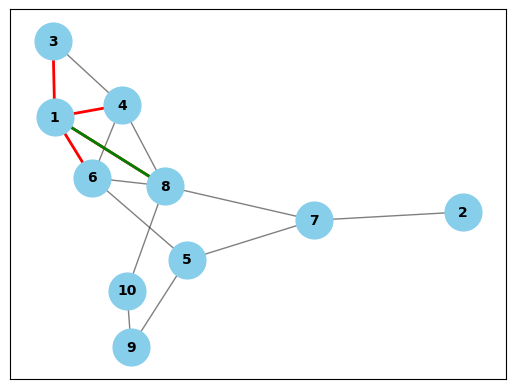
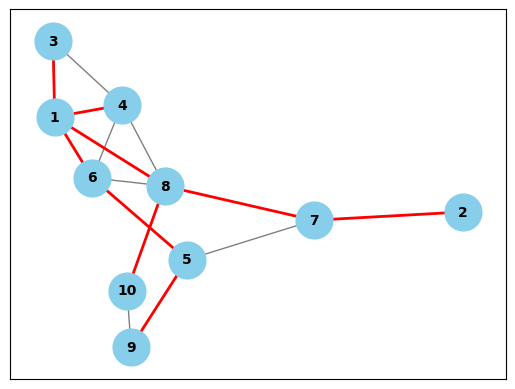
Busca em largura pronta

diff --git a/buscaLarg.py b/buscaLarg.py
@@ -17,6 +17,7 @@ import networkx as nx
 import matplotlib.pyplot as plt
 import PySimpleGUI as sg
 from Vertice import Vertice
+from collections import deque
 
 
 def gerar_imagem_do_grafo(matriz_adjacencia, caminho_imagem, arestas_visitadas=None, aresta_pintada=None):
@@ -68,7 +69,7 @@ def buscar_em_largura(vertice_inicial=None):
     num_vertices = 1
     for v in arestas:
         novo_no = Vertice(num_vertices)
-        num_vertices = num_vertices + 1
+        num_vertices += 1
         vertices.append(novo_no)
 
     # Determina toda a vizinhança dos vértices
@@ -82,32 +83,27 @@ def buscar_em_largura(vertice_inicial=None):
 
     # Seja v o primeiro elemento
     primeiro_vertice = 1
-    fila.append(vertices[primeiro_vertice - 1])
+    fila = deque([vertices[primeiro_vertice - 1]])
     vertices[primeiro_vertice - 1].marcado = True
 
     while fila:
-        for vizinho in vertices[primeiro_vertice - 1].adjacencia:  # Para a vizinhança de v
-            if not vertices[vizinho - 1].marcado:  # Se w não estiver marcado
-                aresta_escolhida = (vertices[primeiro_vertice - 1].numero, vizinho)  # Visitar (v, w)
-                arestas_visitadas.append(aresta_escolhida)
-                vertices[vizinho - 1].marcado = True  # Marcar w
-                fila.append(vertices[vizinho - 1])  # Inserir w em Q
+        vertice_atual = fila.popleft()
 
-            else:
-                if vertices[vizinho - 1] in fila:  # Se w em Q
-                    aresta_escolhida = (vertices[primeiro_vertice - 1].numero, vizinho)  # Visitar (v, w)
-                    if aresta_escolhida not in arestas_visitadas:
-                        arestas_visitadas.append(aresta_escolhida)
+        for vizinho in vertice_atual.adjacencia:
+            if not vertices[vizinho - 1].marcado:
+                aresta_escolhida = (vertice_atual.numero, vizinho)
+                arestas_visitadas.append(aresta_escolhida)
+                vertices[vizinho - 1].marcado = True
+                fila.append(vertices[vizinho - 1])
 
         print('------Fila:')
-        for ver in range(0, len(fila)):
-            print(fila[ver].numero, fila[ver].marcado, fila[ver].adjacencia)
+        for ver in fila:
+            print(ver.numero, ver.marcado, ver.adjacencia)
         print('-----------')
 
         print(arestas_visitadas)
 
-        gerar_imagem_do_grafo(matriz_adjacencia_exemplo, caminho_imagem_saida, arestas_visitadas, aresta_escolhida)  # Gera imagem
-        del fila[0]  # retirar v de Q
+    gerar_imagem_do_grafo(matriz_adjacencia_exemplo, caminho_imagem_saida, arestas_visitadas)  # Gera imagem
 
 
 # Exemplo: gerar uma imagem do grafo
